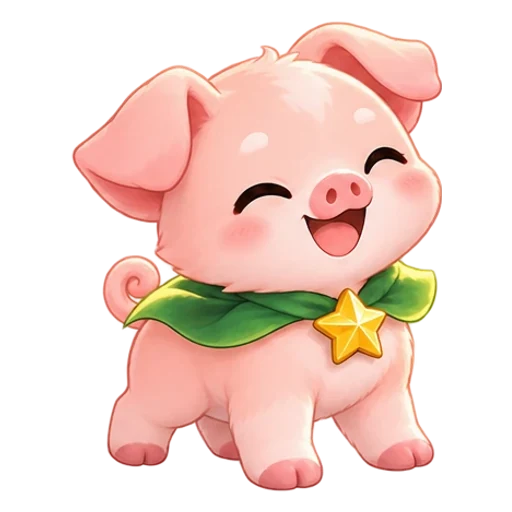
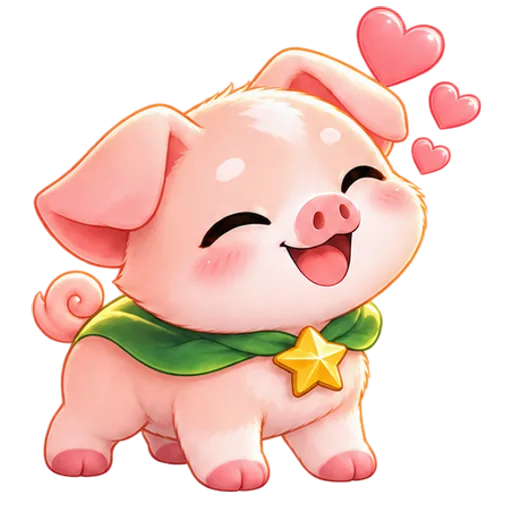
펫 표정 57장 연결: 밥 주기·쓰다듬기·보고 싶었어·야차전 결과에 표정 (v13.83.0)
SUMUS ASSET STUDIO 시트 18장을 그림 덩어리 단위로 잘라 기존 펫 그림과 같은 크기·발 위치로 맞춤.
핑키 시무룩, 나비·용이·초롱 최종은 다시 만들기로 하고 제외.

Claude-Session: https://claude.ai/code/session_019nox9LBJRxwy614zkCzC4q

diff --git a/public/app.js b/public/app.js
@@ -1,6 +1,6 @@
 import { $, $$, api, esc, icon, toast, modal, buttonBusy, date, num, rangeLabel } from './modules/ui.js';
 import { CHARACTERS, EXAM_TYPES, PRACTICE_TYPES, CLASS_OPTIONS, petForm } from './modules/core.js';
-import { avatar } from './modules/character.js';
+import { avatar, expressionSrc } from './modules/character.js';
 import { studentPage, getRanges, updateRangeSummary, starredWords, pushSupport } from './modules/student.js';
 import { teacherPage, collectExamForm, updateExamSummary, studentFiltered, vocabTable, moreVocab, onTeacherGrammarLoaded, tournamentPanel, careIds } from './modules/teacher.js';
 import { configureSessions, openExam, openResult, openPracticeRecord, startPractice, resumeActivePractice, leaveSession } from './modules/sessions.js';
@@ -300,6 +300,22 @@ function pokePet(art) {
   }
 }
 // V13.76 펫 교감: a speech bubble over the home pet.
+// Swaps the card's pet picture to a pose for a few seconds, then back to the still sprite.
+function showPose(art, pose, ms = 2800) {
+  const img = art.querySelector('.avatar-art img');
+  const m = img?.getAttribute('src')?.match(/\/assets\/pets\/([a-z]+)-(\d)\.webp$/);
+  const src = m && expressionSrc(m[1], Number(m[2]), pose);
+  if (!src) return;
+  const still = img.getAttribute('src');
+  const pre = new Image();
+  pre.onload = () => {
+    if (!img.isConnected) return;
+    img.setAttribute('src', src);
+    clearTimeout(img._pose);
+    img._pose = setTimeout(() => { if (img.isConnected) img.setAttribute('src', still); }, ms);
+  };
+  pre.src = src;
+}
 function petSay(text, ms = 3200) {
   const art = document.querySelector('.partner-card-v1358:not(.flipped) .partner-art');
   if (!art) return null;
@@ -322,6 +338,8 @@ async function petCare(b, kind) {
       const lines = CARE_LINES[kind] || CARE_LINES.pet;
       const art = petSay(lines[Math.floor(Math.random() * lines.length)]);
       if (art) {
+        // V13.83: the pet eats or smiles for a moment (when that pose is drawn).
+        showPose(art, kind === 'feed' ? 'eat' : 'happy');
         pokePet(art);
         const xp = document.createElement('i');
         xp.className = 'pet-xp-float'; xp.textContent = `경험치 +${r.xp}`; xp.setAttribute('aria-hidden', 'true');
@@ -474,7 +492,7 @@ function maybeMissedYou() {
   try { if (localStorage.getItem(key) === today) return; localStorage.setItem(key, today); } catch { return; }
   setTimeout(() => {
     const art = petSay(`보고 싶었어! ${care.away_days}일 만이야 💕`, 4200);
-    if (art) { art.closest('.partner-card-v1358')?.classList.add('missed-v1376'); pokePet(art); }
+    if (art) { art.closest('.partner-card-v1358')?.classList.add('missed-v1376'); showPose(art, 'sad', 2200); setTimeout(() => showPose(art, 'happy', 2400), 2300); pokePet(art); }
   }, 500);
 }
 async function leaveBattle() { A.screen = null; await petChanged(); window.scrollTo(0, 0); }

diff --git a/public/modules/character.js b/public/modules/character.js
@@ -2,9 +2,24 @@ import { CHARACTERS, PET_FORMS } from './core.js';
 // Illustrated pets: /assets/pets/<pet>-<form>.webp (512px, transparent, feet on a shared
 // baseline) plus a 160px `-s` copy for small avatars. `form` is 0 (egg) .. 3 (final).
 const LEGACY = { lumi:'dog', nox:'cat', blaze:'dog', tide:'cat', zeph:'dragon', terra:'panda' };
-// V13.65: 몽이's growing and final art were redrawn (the body grows); its old happy face
-// belonged to the previous drawing, so it is left out until a matching one is drawn.
-const EXPRESSIONS = { pig: { 2: ['happy'] } };
+// V13.83 expressions (/assets/pets/<pet>-<form>-<expr>.webp, fitted to the still sprite):
+// happy (petting, wins), eat (feeding), sad (losses, a long absence), cheer (attacking, starting).
+// A pose not drawn yet (or redrawn because it did not match) falls back to the still sprite.
+const ALL = ['happy', 'eat', 'sad', 'cheer'], NO_SAD = ['happy', 'eat', 'cheer'];
+const EXPRESSIONS = {
+  dog: { 1: ALL, 2: ALL, 3: ALL },
+  pig: { 1: NO_SAD, 2: NO_SAD, 3: NO_SAD },
+  cat: { 1: ALL, 2: ALL },
+  dragon: { 1: ALL, 2: ALL },
+  panda: { 1: ALL, 2: ALL, 3: ALL },
+  snake: { 1: ALL, 2: ALL }
+};
+const EXPR_ALIAS = { win: 'happy', hurt: 'sad', lose: 'sad', feed: 'eat', pet: 'happy', attack: 'cheer' };
+// The art of a pet's pose, or null when that pose is not drawn (callers keep the still sprite).
+export function expressionSrc(key, form, expression) {
+  const k = petKey(key), f = Math.max(0, Math.min(3, Math.round(Number(form)) || 0)), e = EXPR_ALIAS[expression] || expression;
+  return (EXPRESSIONS[k]?.[f] || []).includes(e) ? `/assets/pets/${k}-${f}-${e}.webp` : null;
+}
 // Sprites are fitted one by one, so growth is added back gently (feet stay anchored).
 const GROW = [.86, .86, .93, 1];
 const SMALL = new Set(['mini']);
@@ -30,7 +45,7 @@ export function avatar(key = 'dog', options = {}) {
   const { size = '', form: rawForm = 1, accessory = 'none', frame = 'basic', expression = 'normal' } = options;
   const form = Math.max(0, Math.min(3, Math.round(Number(rawForm)) || 0));
   const small = SMALL.has(size);
-  const expr = expression === 'win' ? 'happy' : expression;
+  const expr = EXPR_ALIAS[expression] || expression;
   const hasExpr = !small && expr !== 'normal' && (EXPRESSIONS[key]?.[form] || []).includes(expr);
   const src = `/assets/pets/${key}-${form}${hasExpr ? '-' + expr : ''}${small ? '-s' : ''}.webp`;
   const label = `${c.ko}, ${PET_FORMS[form]}`;

diff --git a/public/sw.js b/public/sw.js
@@ -7,7 +7,7 @@
 // switches to it (and reloads) only when no exam or practice is on screen.
 
 // BUILD:START (generated by server/build-assets.mjs, do not edit by hand)
-const ASSET_HASH = 'f603f11ab0f62c02';
+const ASSET_HASH = '29827a781abf3712';
 const PRECACHE = ["/app.bundle.css","/app.js","/boot-guard.js","/icon.svg","/inapp.js","/","/manifest.webmanifest","/modules/arcade.js","/modules/battle-bot.js","/modules/battle-engine.js","/modules/battle-questions.js","/modules/battle.js","/modules/bracket-tv.js","/modules/card-levelup.js","/modules/celebrate.js","/modules/character.js","/modules/class-tv.js","/modules/core.js","/modules/emblems.js","/modules/league-ui.js","/modules/lucky.js","/modules/market.js","/modules/pet-moments.js","/modules/rewards.js","/modules/rps.js","/modules/sessions.js","/modules/stocks.js","/modules/student.js","/modules/teacher.js","/modules/titles-ui.js","/modules/titles.js","/modules/tournament-ui.js","/modules/ui.js","/practice-enhancements.js","/pwa.js","/student-enhancements.js","/sumus-logo-green.svg"];
 // BUILD:END
 

diff --git a/public/index.html b/public/index.html
@@ -14,7 +14,7 @@
   <link rel="apple-touch-icon" href="/icons/apple-touch-icon-180.png">
   <link rel="icon" href="/icons/icon-192.png" type="image/png" sizes="192x192">
   <link rel="manifest" href="/manifest.webmanifest">
-  <link rel="stylesheet" href="/app.bundle.css?v=13.82.0">
+  <link rel="stylesheet" href="/app.bundle.css?v=13.83.0">
 </head>
 <body>
   <script src="/inapp.js"></script>
@@ -22,7 +22,7 @@
   <div id="toast" role="status" aria-live="polite"></div>
   <div id="modal-root"></div>
   <script src="/boot-guard.js"></script>
-  <script type="module" src="/app.js?v=13.82.0"></script>
+  <script type="module" src="/app.js?v=13.83.0"></script>
   <script type="module" src="/pwa.js"></script>
 </body>
 </html>

diff --git a/CHANGES_v13.83.0.md b/CHANGES_v13.83.0.md
@@ -1,0 +1,43 @@
+# SUMUS VOCA v13.83.0: 펫 표정 (SUMUS ASSET STUDIO 그림 첫 연결)
+
+원장님이 SUMUS ASSET STUDIO로 만든 펫 표정 시트 18장(6종 × 3단계 × 표정 4개)을 앱에 넣었어요.
+
+## 그림 처리
+- 각 시트는 2×2 칸이에요. 칸을 줄을 그어 자르지 않고, **붙어 있는 그림 덩어리 단위로** 나눴어요.
+  - 날개나 꼬리가 칸 경계를 넘어도 잘리지 않아요.
+- 각 표정은 지금 앱의 펫 그림과 같은 크기와 발 위치로 맞췄어요.
+  - 512px, 투명 배경, webp
+  - 한 장에 약 45KB
+
+## 쓰는 그림 (57장)
+| 펫 | 넣은 단계 | 넣은 표정 |
+|---|---|---|
+| 몽이 | 아기 · 성장 · 최종 | 4개 모두 |
+| 핑키 | 아기 · 성장 · 최종 | 기뻐함 · 냠냠 · 응원 |
+| 나비 | 아기 · 성장 | 4개 모두 |
+| 용이 | 아기 · 성장 | 4개 모두 |
+| 밤부 | 아기 · 성장 · 최종 | 4개 모두 |
+| 초롱 | 아기 · 성장 | 4개 모두 |
+
+**넣지 않은 그림** (다시 만들기로 했어요. 그동안은 그 단계의 기본 그림이 보여요)
+- 핑키 시무룩 3장: 돼지 코 대신 강아지 코가 그려졌어요.
+- 나비 · 용이 · 초롱의 **최종** 단계 시트: 성장 단계 모습으로 그려졌어요(최종의 금빛 장식이나 큰 날개가 없어요).
+- 토리 · 호야: 아직 만들지 않았어요.
+
+## 앱에서 바뀌는 곳
+- **밥 주기**: 홈 카드의 펫이 약 3초 동안 **밥 먹는 모습**으로 바뀌었다가 돌아와요.
+- **쓰다듬기**: 하트를 띄우며 **기뻐하는 모습**으로 바뀌어요.
+- **며칠 만에 들어오면**: "보고 싶었어!"와 함께 **시무룩한 모습**을 보였다가 **기뻐하는 모습**으로 바뀌어요.
+- **야차전 결과**: 이기면 기뻐하는 모습, 지면 시무룩한 모습이에요.
+- **알 깨기 · 진화 · 이름 짓기**: 기뻐하는 모습이에요.
+- 표정 그림이 없는 펫이나 단계는 지금처럼 기본 그림을 보여 줘요.
+- 그림은 미리 불러온 뒤에 바꿔서 화면이 깜빡이지 않아요.
+
+## 확인
+- `npm run check` 931/931
+  - 표정 목록의 그림 파일이 모두 있는지 확인해요.
+  - 없는 표정은 기본 그림으로 돌아가는지 확인해요.
+- 로컬에서 몽이(성장)로 직접 해 봤어요.
+  - 밥 주기를 누르면 `dog-2-eat`, 3초 뒤 기본 그림으로 돌아와요.
+  - 쓰다듬기를 누르면 `dog-2-happy`로 바뀌어요.
+  - 표정 그림이 없는 호야는 기본 그림 그대로예요(오류 0).
